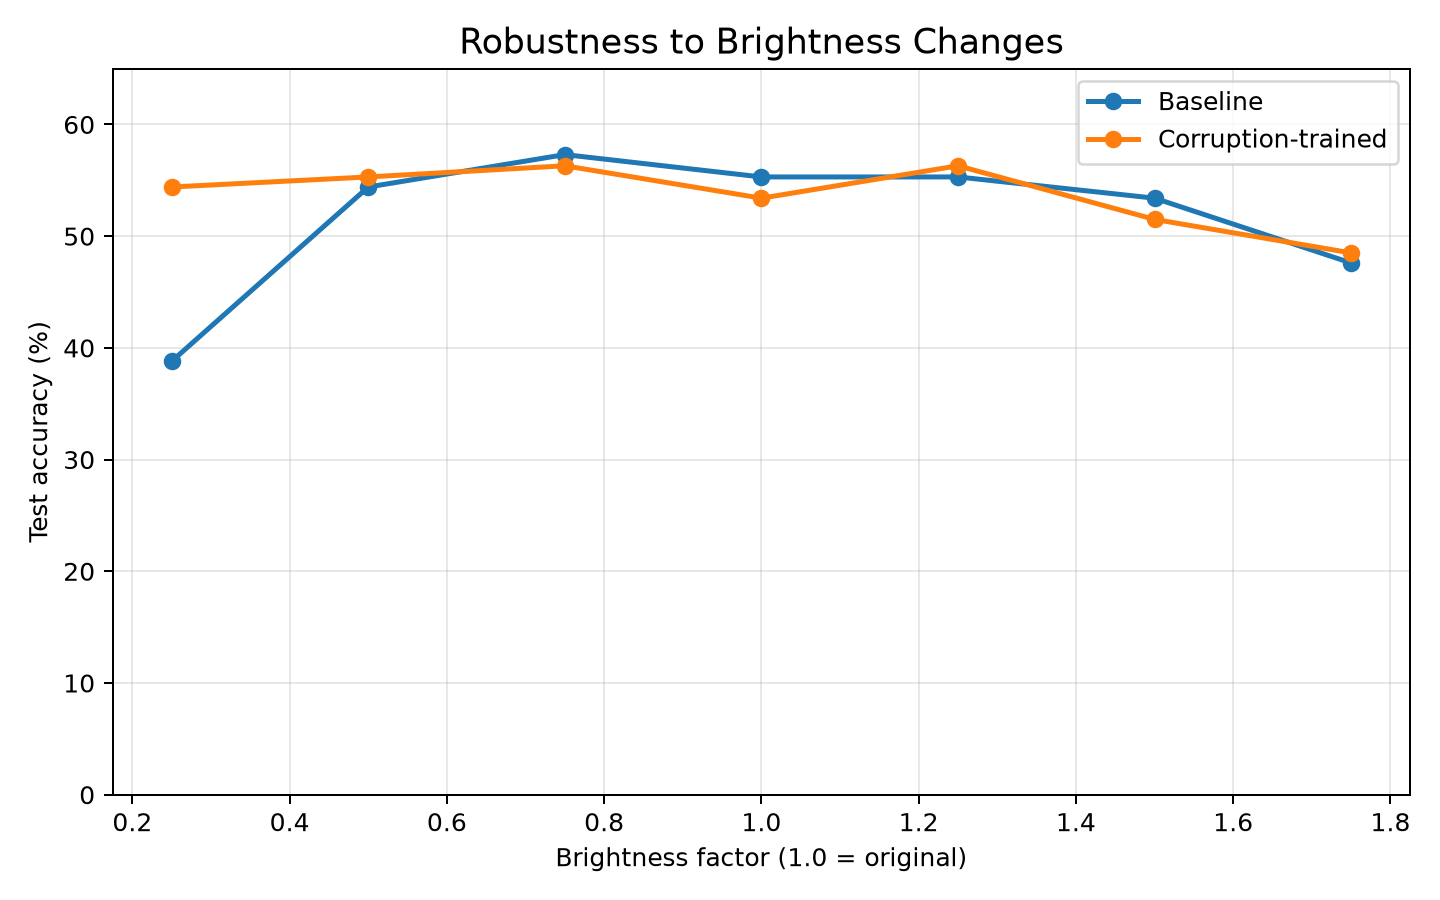
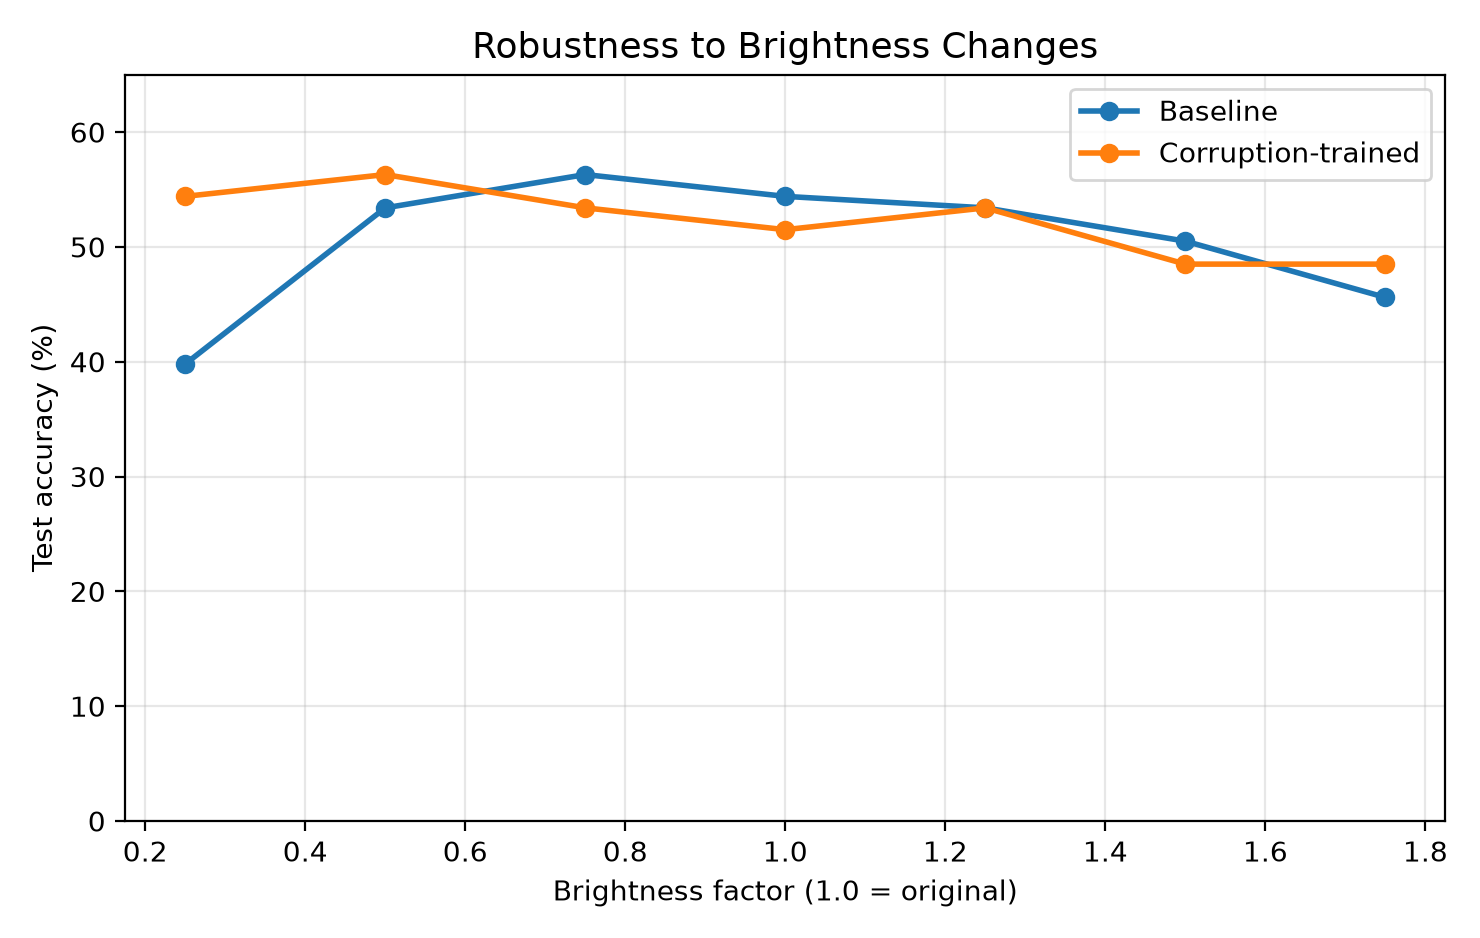
Match training resize in robustness eval, sync requirements, update results and figures

Changed region(s): [[0.0, 0.0311, 1.0, 0.9644], [0.1562, 0.3111, 0.1875, 0.3422]]

diff --git a/robustness.py b/robustness.py
@@ -210,11 +210,14 @@ class RobustnessDataset(Dataset):
             image
         )
 
+        # Bilinear to match transforms.Resize
+        # used during training.
         image = image.resize(
             (
                 IMAGE_SIZE,
                 IMAGE_SIZE
-            )
+            ),
+            Image.BILINEAR
         )
 
 

diff --git a/README.md b/README.md
@@ -92,7 +92,7 @@ The baseline training pipeline uses mild augmentation:
 
 The selected baseline model achieved:
 
-**55.3% clean test accuracy**
+**54.4% clean test accuracy**
 
 For reference, always predicting the most common test grade (grade 0, 34 of 103 images) would give **33.0%**.
 
@@ -111,9 +111,9 @@ The purpose is to encourage the network to learn features that remain useful whe
 
 Its clean test accuracy was:
 
-**53.4%**
+**51.5%**
 
-This is only **1.9 percentage points lower** than the baseline.
+This is only **2.9 percentage points lower** than the baseline.
 
 ---
 
@@ -125,16 +125,16 @@ This is only **1.9 percentage points lower** than the baseline.
 
 | Blur Radius | Baseline | Robust | Change |
 |---:|---:|---:|---:|
-| 0 | 55.3% | 53.4% | -1.9 |
-| 0.5 | 53.4% | 53.4% | 0.0 |
-| 1 | 47.6% | 48.5% | +1.0 |
-| 2 | 41.7% | 50.5% | +8.7 |
-| 4 | 15.5% | 31.1% | **+15.5** |
-| 8 | 13.6% | 17.5% | +3.9 |
+| 0 | 54.4% | 51.5% | -2.9 |
+| 0.5 | 56.3% | 51.5% | -4.9 |
+| 1 | 48.5% | 48.5% | 0.0 |
+| 2 | 43.7% | 50.5% | +6.8 |
+| 4 | 14.6% | 31.1% | **+16.5** |
+| 8 | 13.6% | 18.4% | +4.9 |
 
 The baseline model becomes highly sensitive to stronger blur.
 
-At blur radius 4, corruption-aware training improves accuracy from **15.5% to 31.1%**.
+At blur radius 4, corruption-aware training improves accuracy from **14.6% to 31.1%**.
 
 ---
 
@@ -146,18 +146,18 @@ Noise is added to pixel values on the 0–255 scale.
 
 | Noise Std. | Baseline | Robust | Change |
 |---:|---:|---:|---:|
-| 0 | 55.3% | 53.4% | -1.9 |
-| 5 | 47.6% | 55.3% | +7.8 |
-| 10 | 23.3% | 50.5% | **+27.2** |
-| 20 | 16.5% | 42.7% | **+26.2** |
-| 30 | 17.5% | 34.0% | +16.5 |
-| 50 | 12.6% | 21.4% | +8.7 |
+| 0 | 54.4% | 51.5% | -2.9 |
+| 5 | 45.6% | 53.4% | +7.8 |
+| 10 | 20.4% | 47.6% | **+27.2** |
+| 20 | 17.5% | 41.7% | **+24.3** |
+| 30 | 16.5% | 35.0% | +18.4 |
+| 50 | 12.6% | 20.4% | +7.8 |
 
 Gaussian noise produced the strongest robustness gains.
 
-At noise standard deviation 10, the robust model improves from **23.3% to 50.5%**.
+At noise standard deviation 10, the robust model improves from **20.4% to 47.6%**.
 
-At standard deviation 20, accuracy improves from **16.5% to 42.7%**.
+At standard deviation 20, accuracy improves from **17.5% to 41.7%**.
 
 ---
 
@@ -167,11 +167,11 @@ At standard deviation 20, accuracy improves from **16.5% to 42.7%**.
 
 | JPEG Quality | Baseline | Robust | Change |
 |---:|---:|---:|---:|
-| 100 | 55.3% | 53.4% | -1.9 |
-| 90 | 58.3% | 58.3% | 0.0 |
-| 70 | 48.5% | 53.4% | +4.9 |
-| 50 | 44.7% | 53.4% | +8.7 |
-| 30 | 40.8% | 49.5% | +8.7 |
+| 100 | 54.4% | 51.5% | -2.9 |
+| 90 | 53.4% | 54.4% | +1.0 |
+| 70 | 49.5% | 56.3% | +6.8 |
+| 50 | 45.6% | 55.3% | +9.7 |
+| 30 | 41.7% | 48.5% | +6.8 |
 | 10 | 18.4% | 12.6% | -5.8 |
 
 The corruption-trained model improves robustness to moderate and heavy JPEG compression, although extremely severe compression remains difficult.
@@ -184,13 +184,13 @@ The corruption-trained model improves robustness to moderate and heavy JPEG comp
 
 | Brightness Factor | Baseline | Robust | Change |
 |---:|---:|---:|---:|
-| 0.25 | 38.8% | 54.4% | **+15.5** |
-| 0.50 | 54.4% | 55.3% | +1.0 |
-| 0.75 | 57.3% | 56.3% | -1.0 |
-| 1.00 | 55.3% | 53.4% | -1.9 |
-| 1.25 | 55.3% | 56.3% | +1.0 |
-| 1.50 | 53.4% | 51.5% | -1.9 |
-| 1.75 | 47.6% | 48.5% | +1.0 |
+| 0.25 | 39.8% | 54.4% | **+14.6** |
+| 0.50 | 53.4% | 56.3% | +2.9 |
+| 0.75 | 56.3% | 53.4% | -2.9 |
+| 1.00 | 54.4% | 51.5% | -2.9 |
+| 1.25 | 53.4% | 53.4% | 0.0 |
+| 1.50 | 50.5% | 48.5% | -1.9 |
+| 1.75 | 45.6% | 48.5% | +2.9 |
 
 The largest brightness improvement occurs for very dark images.
 
@@ -202,13 +202,13 @@ The largest brightness improvement occurs for very dark images.
 
 | Contrast Factor | Baseline | Robust | Change |
 |---:|---:|---:|---:|
-| 0.25 | 43.7% | 58.3% | **+14.6** |
-| 0.50 | 53.4% | 54.4% | +1.0 |
-| 0.75 | 54.4% | 57.3% | +2.9 |
-| 1.00 | 55.3% | 53.4% | -1.9 |
-| 1.25 | 54.4% | 53.4% | -1.0 |
-| 1.50 | 57.3% | 49.5% | -7.8 |
-| 2.00 | 53.4% | 43.7% | -9.7 |
+| 0.25 | 44.7% | 55.3% | **+10.7** |
+| 0.50 | 49.5% | 52.4% | +2.9 |
+| 0.75 | 52.4% | 56.3% | +3.9 |
+| 1.00 | 54.4% | 51.5% | -2.9 |
+| 1.25 | 53.4% | 50.5% | -2.9 |
+| 1.50 | 55.3% | 45.6% | -9.7 |
+| 2.00 | 51.5% | 41.7% | -9.7 |
 
 The robust model improves performance under low contrast but performs worse under unusually high contrast.
 
@@ -220,18 +220,18 @@ Corruption-aware training produced a favorable but non-universal robustness trad
 
 Clean accuracy changed only slightly:
 
-**55.3% → 53.4% (-1.9 points)**
+**54.4% → 51.5% (-2.9 points)**
 
 while several degraded conditions improved substantially:
 
 | Condition | Baseline | Robust | Improvement |
 |---|---:|---:|---:|
-| Noise std 10 | 23.3% | 50.5% | **+27.2** |
-| Noise std 20 | 16.5% | 42.7% | **+26.2** |
-| Blur radius 4 | 15.5% | 31.1% | **+15.5** |
-| Brightness 0.25 | 38.8% | 54.4% | **+15.5** |
-| Contrast 0.25 | 43.7% | 58.3% | **+14.6** |
-| JPEG quality 30 | 40.8% | 49.5% | **+8.7** |
+| Noise std 10 | 20.4% | 47.6% | **+27.2** |
+| Noise std 20 | 17.5% | 41.7% | **+24.3** |
+| Blur radius 4 | 14.6% | 31.1% | **+16.5** |
+| Brightness 0.25 | 39.8% | 54.4% | **+14.6** |
+| Contrast 0.25 | 44.7% | 55.3% | **+10.7** |
+| JPEG quality 50 | 45.6% | 55.3% | **+9.7** |
 
 The strongest gains occurred under Gaussian noise.
 
